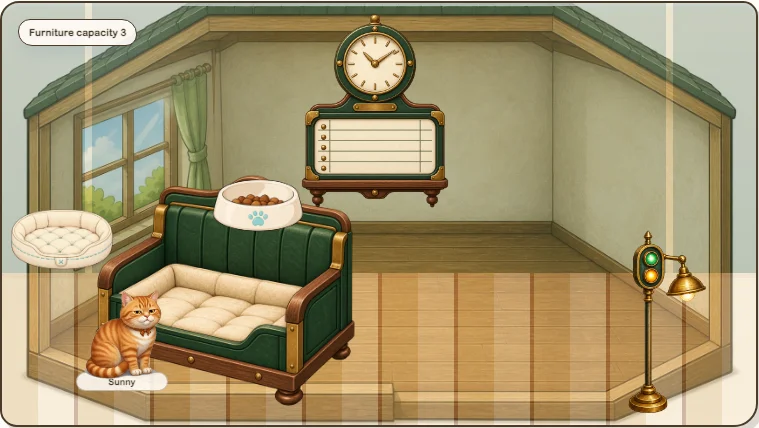
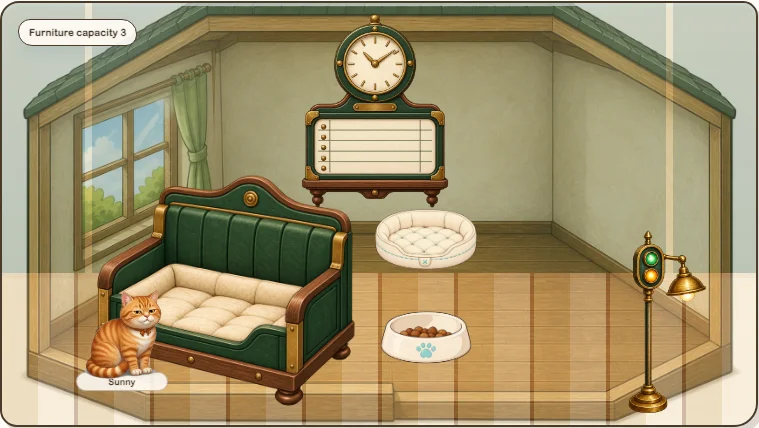
Prevent room furniture from overlapping station bench (#99)

diff --git a/public/games/cat-life/src/js/main.js b/public/games/cat-life/src/js/main.js
@@ -9,6 +9,7 @@
   var toastTimerId = null;
   var activeToastId = null;
   var catReactionTimerId = null;
+  var roomResizeObserver = null;
 
   function clamp(value, min, max) {
     return Math.max(min, Math.min(max, value));
@@ -409,6 +410,10 @@
     dom.main.innerHTML = renderer(game.state.game);
     dom.navigation.innerHTML = game.ui.renderDesktopNavigation(game.state.game);
     dom.mobileNavigation.innerHTML = game.ui.renderMobileNavigation(game.state.game);
+    if (roomResizeObserver) roomResizeObserver.disconnect();
+    arrangeRoomFurniture();
+    var roomScene = dom.main.querySelector(".room-scene");
+    if (roomResizeObserver && roomScene) roomResizeObserver.observe(roomScene);
     updateShellText();
     renderToast();
     if (game.systems.musicSystem) {
@@ -1083,6 +1088,39 @@
     }
   }
 
+  function roomRect(element, scene) {
+    var rect = element.getBoundingClientRect();
+    var origin = scene.getBoundingClientRect();
+    var left = rect.left - origin.left - scene.clientLeft;
+    var top = rect.top - origin.top - scene.clientTop;
+    return { left: left, top: top, right: left + rect.width, bottom: top + rect.height,
+      width: rect.width, height: rect.height };
+  }
+
+  function arrangeRoomFurniture() {
+    if (game.state.roomDrag) return;
+    var scene = dom.main.querySelector(".room-scene");
+    var bench = scene && scene.querySelector(".room-theme-fixture--station-bench");
+    if (!bench || !scene.clientWidth) return;
+    var obstacles = [roomRect(bench, scene)];
+    Array.prototype.forEach.call(scene.querySelectorAll(".room-furniture"), function (element, index) {
+      var saved = game.systems.homeSystem.getFurniturePosition(element.dataset.furnitureId, index);
+      var desired = { x: parseFloat(saved.left) * scene.clientWidth / 100,
+        y: parseFloat(saved.top) * scene.clientHeight / 100 };
+      var size = roomRect(element, scene);
+      var spot = game.systems.homeSystem.resolveFurnitureSpot(desired, size,
+        { width: scene.clientWidth, height: scene.clientHeight }, obstacles);
+      if (spot) {
+        element.style.left = spot.x / scene.clientWidth * 100 + "%";
+        element.style.top = spot.y / scene.clientHeight * 100 + "%";
+        obstacles.push({ left: spot.x - size.width / 2, right: spot.x + size.width / 2,
+          top: spot.y - size.height / 2, bottom: spot.y + size.height / 2 });
+      } else {
+        obstacles.push(size);
+      }
+    });
+  }
+
   function updateDraggedFurniture(clientX, clientY) {
     var drag = game.state.roomDrag;
     var xPercent;
@@ -1094,6 +1132,21 @@
 
     xPercent = clamp(((clientX - drag.sceneRect.left) / drag.sceneRect.width) * 100, 8, 92);
     yPercent = clamp(((clientY - drag.sceneRect.top) / drag.sceneRect.height) * 100, 34, 82);
+
+    var scene = drag.element.closest(".room-scene");
+    var bench = scene.querySelector(".room-theme-fixture--station-bench");
+    if (bench) {
+      var obstacles = [roomRect(bench, scene)];
+      Array.prototype.forEach.call(scene.querySelectorAll(".room-furniture"), function (element) {
+        if (element !== drag.element) obstacles.push(roomRect(element, scene));
+      });
+      var spot = game.systems.homeSystem.resolveFurnitureSpot(
+        { x: xPercent * scene.clientWidth / 100, y: yPercent * scene.clientHeight / 100 },
+        roomRect(drag.element, scene), { width: scene.clientWidth, height: scene.clientHeight }, obstacles);
+      if (!spot) return;
+      xPercent = spot.x / scene.clientWidth * 100;
+      yPercent = spot.y / scene.clientHeight * 100;
+    }
 
     game.systems.homeSystem.setFurniturePosition(drag.furnitureId, xPercent.toFixed(2) + "%", yPercent.toFixed(2) + "%");
 
@@ -1172,6 +1225,7 @@
     dom.navigation = document.getElementById("app-navigation");
     dom.mobileNavigation = document.getElementById("app-mobile-navigation");
     dom.toast = document.getElementById("app-toast");
+    if (window.ResizeObserver) roomResizeObserver = new ResizeObserver(arrangeRoomFurniture);
 
     game.state.game = game.state.saveSystem.loadOrCreateGame();
     if (window.CatGameIntegration && typeof window.CatGameIntegration.applySavedLanguage === "function") {

diff --git a/public/games/cat-life/src/js/core/namespace.js b/public/games/cat-life/src/js/core/namespace.js
@@ -2,12 +2,13 @@
   window.CatGame = window.CatGame || {
     config: {
       storageKey: "catGameSaveV1",
-      version: "1.22.1",
+      version: "1.22.2",
       saveSchemaVersion: 2,
       cloudSaveMaxBytes: 750000,
       startingFurniture: ["bed_basic", "bowl_basic"],
       releaseNotes: {
         "zh-CN": [
+          "车站小屋长椅会为普通家具留出空间；旧布局、拖动和屏幕尺寸变化时自动避让，原有摆放记录保持兼容。",
           "会员商店新增车站小屋实景预览，明确皮肤适用对象、主题包含项与不包含项。",
           "兑换确认补充商品范围、积分规则与客服入口；修正房间主题装饰的边缘裁切。",
           "新增独立玩家背包，商店购买和社区收集的物品会按玩家补给、猫咪用品、社区材料与家具分类显示。",
@@ -15,6 +16,7 @@
           "家具与社区材料提供前往小家或猫町的快捷入口，库存、自动存档和云同步继续使用原有数据。",
         ],
         en: [
+          "Room furniture now avoids the Station bench when loading layouts, dragging, or resizing the screen, while preserving existing saved placements.",
           "The member store now shows an in-game Station Room preview and clarifies skin eligibility, included themes, and exclusions.",
           "Redemption confirmation includes product scope, points rules, and support links; room theme fixtures no longer clip at the edges.",
           "Added a dedicated player backpack that groups shop purchases and community finds into player supplies, cat supplies, materials, and furniture.",
@@ -22,6 +24,7 @@
           "Furniture and community materials link to My Home or Cat Town, while inventory, auto-save, and cloud sync continue using the existing data.",
         ],
         ja: [
+          "駅のベンチと家具が重ならないよう、配置の読み込み・ドラッグ・画面サイズ変更時に位置を調整します。既存の配置データは保持されます。",
           "会員ストアに駅の部屋のゲーム画面を追加し、スキンの対象とテーマの内容・対象外項目を明記しました。",
           "交換確認に商品内容、ポイント規則、サポートへのリンクを追加し、部屋の装飾が端で切れる表示を修正しました。",
           "プレイヤー用バッグを追加し、ショップ購入品とコミュニティ入手品を補給品、猫用品、素材、家具に分けて表示します。",

diff --git a/public/games/cat-life/src/js/systems/homeSystem.js b/public/games/cat-life/src/js/systems/homeSystem.js
@@ -249,6 +249,41 @@
     };
   }
 
+  // Find the nearest free center using obstacle edges, without changing the save.
+  function resolveFurnitureSpot(desired, size, bounds, obstacles) {
+    var gap = 6;
+    var halfWidth = size.width / 2;
+    var halfHeight = size.height / 2;
+    var minX = halfWidth + gap;
+    var maxX = bounds.width - halfWidth - gap;
+    var minY = Math.max(halfHeight + gap, bounds.height * 0.34);
+    var maxY = Math.min(bounds.height - halfHeight - gap, bounds.height * 0.86);
+    var xs = [desired.x, minX, maxX];
+    var ys = [desired.y, minY, maxY];
+    var best = null;
+    var distance = Infinity;
+    obstacles.forEach(function (rect) {
+      xs.push(rect.left - halfWidth - gap, rect.right + halfWidth + gap);
+      ys.push(rect.top - halfHeight - gap, rect.bottom + halfHeight + gap);
+    });
+    xs.forEach(function (x) {
+      x = Math.max(minX, Math.min(maxX, x));
+      ys.forEach(function (y) {
+        y = Math.max(minY, Math.min(maxY, y));
+        var blocked = obstacles.some(function (rect) {
+          return x + halfWidth > rect.left - gap && x - halfWidth < rect.right + gap &&
+            y + halfHeight > rect.top - gap && y - halfHeight < rect.bottom + gap;
+        });
+        var nextDistance = Math.pow(x - desired.x, 2) + Math.pow(y - desired.y, 2);
+        if (!blocked && nextDistance < distance) {
+          best = { x: x, y: y };
+          distance = nextDistance;
+        }
+      });
+    });
+    return best;
+  }
+
   function resetFurnitureLayout() {
     var scene = getRenderableRoomScene(game.state.game.home.roomScene);
     var layout = {};
@@ -407,6 +442,7 @@
     ensureFurnitureLayout: ensureFurnitureLayout,
     getFurniturePosition: getFurniturePosition,
     setFurniturePosition: setFurniturePosition,
+    resolveFurnitureSpot: resolveFurnitureSpot,
     resetFurnitureLayout: resetFurnitureLayout,
     renderRoomScene: renderRoomScene,
     getRenderableRoomScene: getRenderableRoomScene,

diff --git a/public/games/cat-life/src/styles/broadsheet.css b/public/games/cat-life/src/styles/broadsheet.css
@@ -1270,15 +1270,18 @@ button:disabled, .primary-button:disabled, .secondary-button:disabled, .ghost-bu
   border: 0;
   border-radius: 14px;
   box-shadow: none;
-  height: 92px;
+  height: auto;
+  aspect-ratio: 28 / 23;
   overflow: hidden;
-  width: 112px;
+  width: min(22%, 112px);
   z-index: 3;
 }
 
 .room-scene.is-living .room-furniture { cursor: default; }
 .room-scene.is-editing .room-furniture { outline: 2px dashed rgba(229, 126, 72, .82); outline-offset: 3px; }
 .room-furniture-art {
+  position: absolute;
+  inset: 0;
   border-radius: 13px;
   height: 100%;
   object-fit: contain;
@@ -1494,7 +1497,7 @@ button:disabled, .primary-button:disabled, .secondary-button:disabled, .ghost-bu
   .room-stage-footer p { max-width: 68%; }
   .room-furniture-shelf { grid-template-columns: repeat(2, minmax(0, 1fr)); }
   .room-option-list { grid-template-columns: repeat(2, minmax(0, 1fr)); }
-  .room-stage-panel .room-furniture { height: 68px; width: 76px; }
+  .room-stage-panel .room-furniture { width: min(22%, 76px); }
   .room-cat-actor { width: 82px; }
   .room-cat-visual,
   .room-cat-actor .room-cat-sprite { height: 76px; width: 82px; }

diff --git a/src/data/products/cat-life-game.ts b/src/data/products/cat-life-game.ts
@@ -3,7 +3,7 @@ export const catLifeGameProduct = {
   zhHantName: '打工養貓日記',
   zhHansName: '打工养猫日记',
   jaName: '働いて猫を育てる日記',
-  latestVersion: '1.22.1',
+  latestVersion: '1.22.2',
   productPath: '/en/apps/cat-life-game/',
   zhHantProductPath: '/zh-hant/apps/cat-life-game/',
   zhHansProductPath: '/zh-hans/apps/cat-life-game/',

diff --git a/public/games/cat-life/content-manifest.js b/public/games/cat-life/content-manifest.js
@@ -11,7 +11,7 @@
 
   var manifest = deepFreeze({
     schemaVersion: 1,
-    releaseVersion: "1.22.1",
+    releaseVersion: "1.22.2",
     products: [
       {
         productId: "cat-life.skin.moonlit-tabby",

diff --git a/public/games/cat-life/src/styles/main.css b/public/games/cat-life/src/styles/main.css
@@ -1229,7 +1229,7 @@ button:disabled {
   .room-theme-fixture--station-bench {
     bottom: 0;
     left: 5%;
-    width: 54%;
+    width: 37%;
   }
 }
 
